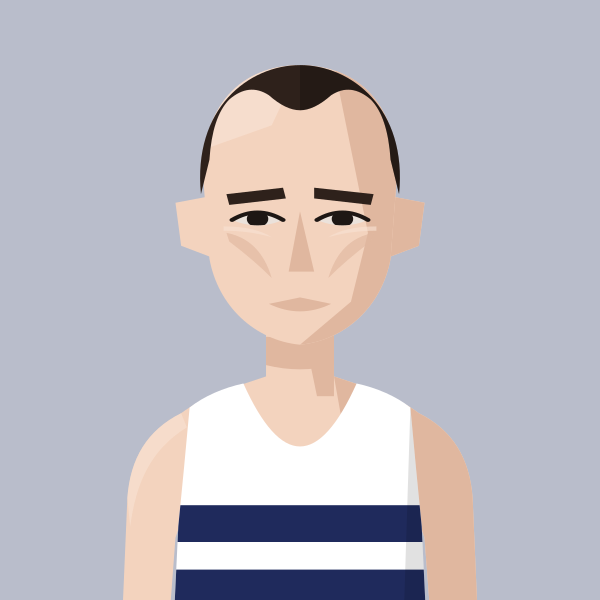
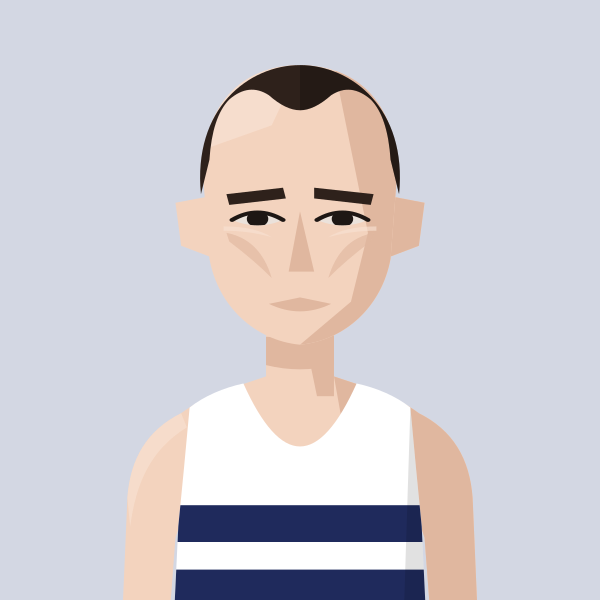
Croydon: lighter navy-tinted background and lettering (about 1.8:1 contrast)
Claude-Session: https://claude.ai/code/session_01MgmDWhFqnSSnP4iBLKXUZC

diff --git a/files/index.html b/files/index.html
@@ -658,11 +658,11 @@ const POSTER_CARD=(()=>{try{return new URLSearchParams(location.search).get('car
 const posterLines=s=>{const i=s.indexOf('-');if(i<0)return[s];const a=s.slice(0,i),b=s.slice(i+1);return a.length<b.length?[a+'-',b]:[a,'-'+b];};
 const POSTER_OPT=(()=>{try{const q=new URLSearchParams(location.search);const w=parseInt(q.get('w'),10);return{w:[300,400,500,600,700,800,900].includes(w)?w:600,title:q.get('case')!=='caps'};}catch(e){return{w:600,title:true};}})();/* default: title case, weight 600 (as the profile-page name); ?w=300 … 900 and ?case=caps to compare */
 /* clubs whose poster name takes the kit's accent colour rather than its main colour (Belgrave: the gold band, not the claret) */
-const POSTER_ACCENT={BEL:'#BC9F64',CRO:'#1F2A5C'};
+const POSTER_ACCENT={BEL:'#BC9F64',CRO:'#98A1CA'};
 /* poster name colour: the card colour mixed with the kit colour (or Belgrave's gold) for a tonal look, then darkened in the same hue only if it falls below 2:1 contrast with the card (about Jack Kavanagh's level; Oct 2026) */
 const POSTER_MIN_CONTRAST=2;
 /* yellow kits read stronger at the same contrast, so they get a softer minimum (Steve, Oct 2026) */
-const POSTER_MIN_BY_CLUB={'H/W':1.5,'BOX':1.5,'STR':1.5};
+const POSTER_MIN_BY_CLUB={'H/W':1.5,'BOX':1.5,'STR':1.5,'CRO':1.5};
 const posterInk=(bg,vest,club)=>{const rgb=c=>{c=(c||'#888888').replace('#','');if(c.length===3)c=c.split('').map(v=>v+v).join('');const n=parseInt(c,16);return[(n>>16)&255,(n>>8)&255,n&255];};
   const b=rgb(bg),v=vest?rgb(vest):null,lum=v?(0.2126*v[0]+0.7152*v[1]+0.0722*v[2])/255:1;
   const base=club&&POSTER_ACCENT[club]?rgb(POSTER_ACCENT[club]):((v&&lum<0.8)?b.map((x,i)=>x*0.55+v[i]*0.45):b.map(x=>x*0.72));
@@ -827,7 +827,7 @@ const portraitFile=(name,club)=>{const k=normalizeNameForCompare(name||'').repla
 const portraitClubOf=(name,clubs)=>{for(const c of clubs||[]){if(c&&portraitFile(name,c))return c;}return null;}; /* first of these clubs we have a portrait for */
 // Athlete header figure: superstar portrait if we have one, else a grey runner in the club vest, else the plain vest icon
 // Changes whenever any portrait changes (set by tools/build_og.py), so browsers fetch fresh images instead of old cached ones
-const PORTRAIT_V='e7145d36';const PORTRAIT_WOMEN='abbey-brooke,abbie-bulbulian,adele-prince,aimee-hargreaves,aisling-ahern,alex-brown,alex-gandee,alex-marginean,alex-miller,alexa-parker,alexandra-barbour,alice-braham,alice-bridger-morales,alice-crane,alice-martin,alice-reed,alice-smith,alison-purnell,alison-thomson,amelia-pettitt,amy-clements,andrea-barber,anika-schwarze-chintapatla,anna-garnier,anna-garnier-hw,anna-sharp,annabel-hobday,annabelle-hadlow,anne-hegvold,annmarie-seymour,ava-mcandie,becky-briggs,bethan-goddard,bethanie-murray,bethany-brown,betsy-griffiths,billie-mcclosky,camilla-barden,caoimhe-nic-fhogartaigh,carolyne-baxter,catherine-bryson,catherine-eastham,catherine-kandie,cathy-ansell,charlotte-griffiths,chloe-beckett,chloe-tighe,chrissie-wellington,claire-grima,clara-pettit,clare-elms,clare-pauzers,dillan-quinn,dorchie-cockerell,eilidh-hide,elinor-skinner,eliza-grant,elizabeth-apsley,elizabeth-stavreski,ella-fennelly,ella-king-powrie,ella-may-hards,ella-newton,ellen-weir,ellie-brown,ellie-freeden,eloise-bull,emilie-arnoux,emily-barrett,emily-bradley,emily-lowery,emily-robbins,emma-gordon,emma-howsham,emma-lord,emma-rowland,estle-viljoen,evie-warren,felicity-cole,felicity-harrison,felicity-hayward,fi-maddocks,fiona-de-mauny,florence-wiggins,gabby-collison,gabriel-reynolds,gemma-newport,genevieve-blanch,georgia-curry,georgie-bruinvels,georgie-fenn,georgie-furze,georgie-grgec,gina-galbraith,grace-leyland,grace-richardson,hannah-edwards,hannah-english,heather-statham,heather-statham-cc,helena-corbin,helena-keenan,holly-nixon,holly-pan,imogen-mackie,imogen-wolsey,iona-cousland,isabel-bradley,isabel-brinsden,isabelle-pickett,isobel-hodder,jennifer-nandi,jennifer-smith,jess-reed,jess-saunders,jess-winfield,jessica-davies,jessica-lowe,jodie-favell,josephine-rhodes,julia-bleasdale,julia-wedmore,juliet-hodder,jurgita-levertaviciute,justine-lynch,karen-fenner,karen-xiang,karina-box,kate-axford,kate-williams,kathy-sharpe,katie-ellen-french,katie-good,katie-snowden,katy-hedgethorne,kitty-shepherd-cross,kristina-popadich,lara-bromilow,lara-mangan,laura-goodson,laura-miles,lauren-major,lea-adamson,lily-newton,lisa-bailey,lisa-thomas,lisa-thomas-hw,lizzie-goldie-scot,louise-cooper,lucy-jones,lucy-macalister,lucy-peters,lydia-blackmore,lydia-gallyer-barnett,maddie-mastrolonardo,maddy-whitman,maeve-kenny,margaret-coogan,martina-conner,mary-james,mary-setyabule,matilde-lomba,megan-gildea,mel-wilkins,mhairi-hall,mimi-corden-lloyd,molly-oconnor,molly-smith,monika-gajek,naomi-lenane,natalie-beadle,natalie-seymour,natasha-lodge,niamh-thompson,nicky-hayes,nicola-cartlidge,nicola-douglas,nikki-sturzaker,olivia-papaioannou,olivia-stillman,orna-mcginley,pamela-mchutchon,patricia-walker,patrizia-gnoato,penny-oliver,rachel-brown,rebecca-barrow,rebekah-edgar,ruby-carter,ruby-whyte-wilding,ruby-woolfe,sally-urquhart,sam-whiting,samantha-munday,sarah-astin,sarah-dewhirst,sarah-grover,sarah-hanley,sarah-holt,sarah-murphy,sarah-palmer,sarah-palmer-ran,sarah-riceman,sarah-young,saron-haileselase,serena-carter,sophie-cowper,sophie-harris,sophie-hicks,sophie-tooley,stacey-ward,steph-hewitt,steph-mccall,steph-mccall-cc,steph-mccall-slh,steph-mitchell,suzanne-swaine,suze-spalding,suzie-harvey,suzy-whatmough,teresa-murphy,tilly-heaton,tilly-heaton-bel,tish-jones,vic-cartwright,vicky-clarke,victoria-barthelmess,victoria-buck,vikki-filsell,zoe-doyle,zoe-macdonald,zuzana-nemeckova';const PORTRAIT_MEN='aaron-wilson,abdulla-elsadig,adam-leane,adrian-major,adrien-royer,alan-black,alan-mead,alex-brecker,alex-bruce-littlewood,alex-gutteridge,alex-harris,alex-howard,alex-janiaud,alex-lee,alex-lennon,alex-mills,alex-milne,alex-morales,alex-robinson,alex-yee,alexander-marks,amittai-ben-israel,andrew-cumine,andrew-green,andrew-penney,andrew-perfect,andrew-simms,andrew-warburton,andrius-jaksevicius,andy-coley-maud,andy-coley-maud-cc,andy-fyfe,andy-north,andy-paton,andy-weir,angus-butler,angus-lamb,anisse-ismaili,arlo-ludewick,arne-dumez,arthur-peel,ashley-goncalves,barnaby-day,barry-collins,barry-sawyer,ben-clarke,ben-coughlan,ben-harding,ben-hurley,ben-ireland,ben-millar,ben-paviour,ben-pearce,ben-racle,ben-revill,ben-reynolds,ben-scott,ben-toomer,benedict-whitby,benjamin-hilson,bernie-ford,bill-kerr,bill-weller,bill-weller-wal,bob-harrison,bob-holt,bob-lunnon,bob-rayman,bob-smith,bradley-courtney-pinn,brandon-dewar,brian-gorman,brian-wilder,caleb-hathaway,callum-stewart,cameron-dockerill,cameron-reilly,carl-delaney,charles-herrington,charlie-dabbs,charlie-dickinson,charlie-eastaugh,charlie-manning,charlie-pickett,charlie-rogers,charlie-sandison,charlie-walker,charlie-wyllie,che-compton,chris-busaileh,chris-busaileh-hhh,chris-greenwood,chris-keavey,chris-moss,chris-steer,chris-threadgold,chris-warren,christian-lee,christopher-parker,clive-gilby,clive-shippen,colin-high,colin-pearson,conall-mcnally,conall-whelan,craig-ruddy,dame-dibaba,dan-cliffe,dan-pettitt,daniel-shaw,daniel-wolff,darren-mead,dave-beard,dave-beaver,dave-glassborow,dave-holt,dave-taylor,david-anderson,david-bowers,david-grima,david-north,david-ogden,david-symons,david-walsh,david-williams,deron-fagan,dick-piotrowski,dimos-evangelidis,dom-nolan,dominic-kiralyfi,don-anderson,don-faircloth,don-maclean,doug-maughan,duncan-rimmer,dylan-evans,dylan-mitchard,ed-brewer,ed-catmur,ed-gibson,ed-mallett,eddie-herridge,eddie-jodrell,eddie-rolls,edward-chuck,eoin-brady,eoin-molloy,ethan-mccolgan,falilou-kebe,findlay-dyer,finn-johnson,fintan-pearce,frank-tickner,frank-ward,fred-paget,fred-slemeck,freddie-hessian,garret-lee,gary-ribbons,gary-ribbons-ee,gary-staines,gary-staines-bel,gavin-eccles,geoff-biscoe,geoff-jerwood,geoff-north,george-cotton,george-gathercole,george-jackson,george-loxton,george-mallett,george-ogden,gerry-adams,gerry-north,glen-keegan,gordon-pearce,graham-macky,harrison-hayman,harry-guttridge,hector-revill,henry-hart,henry-silverstein,hugo-hewitt,huw-lobb,ian-acreman,ian-crowe-wright,ian-ellwood,ian-harkness,indy-barnes,isaac-lutaya,isaac-parker,jack-brotchie,jack-dickson,jack-dormer,jack-hampshire,jack-harrison,jack-hobden,jack-kavanagh,jack-millar,jack-ramm,jack-woods,jacob-brockmann,jake-simmonds,james-bartram,james-blackwood,james-bowler,james-estall,james-ewing,james-fox,james-hancock,james-harvey,james-hoad,james-kelly,james-mcmullan,james-murray,james-nutt,james-preston,james-roberts,james-stockings,james-ward,james-wootton,jamie-crowe,jamie-parkinson,jared-martin,jean-paul-wright,jeff-cunningham,jeremy-dempsey,jermaine-mays,jerry-watson,jim-allchin,jim-rimmer,joe-english,joe-hartley,john-baker,john-bicourt,john-bromley,john-davies,john-dear,john-foss,john-foxall,john-gilbert,john-gladwin,john-hutchins,john-kendall,john-kimaiyo,john-lee,john-lethbridge,john-mather,john-moore,john-roberts,john-sanderson,john-stow,john-sullivan,john-thresher,jon-pepper,jon-pepper-slh,jon-phillips,jon-solly,jonathan-cocker,jonathan-collier,jonathan-cornish,jonathan-ratcliffe,jonathan-tipper,jonny-neville,jonny-scott,jordan-weaver,josh-mitchell,josh-snow,josh-trigwell,jules-gevers,junior-galley,justin-chaston,justin-reid,kassa-tadesse,keith-newton,kevin-nash,kevin-quinn,kevin-sturman,kieran-barnes,kieran-white,knut-hegvold,knut-hegvold-bel,larry-ryan,lawrence-avery,lee-lintern,lewis-lloyd,liam-burthem,lionel-mann,lloyd-kempson,luke-caldwell,mack-downie,malachi-byansi,marcello-bizio,marcelo-fortes,marco-mazzotta,mark-anderson,mark-miles,mark-sinclair,mark-tennyson,mark-waller,martin-dent,martin-lake,martin-lewington,martin-shore,mathew-speed,matt-chaston,matt-jones,matt-wood,matthew-edgar,matthew-houchell,matthew-thomas,matthew-varley,max-bloor,max-heyden,max-milarvie,max-nicholls,michael-baker,michael-mccarthy,mick-woods,mike-beevor,mike-boyle,mike-cummings,mike-farmery,mike-fuller,mike-hayes,mike-kortenray,mike-nouch,mohammed-ismail,monty-hudson,morgan-roberts,nathan-visick,neil-chisholm,neil-phillips,neil-speaight,neil-wilson,nic-lukies,nick-acfield,nick-altmann,nick-bester,nick-bester-hhh,nick-buckle,nick-bundle,nick-goolab,nick-lightfoot,nick-morris,nick-torry,noah-fernandez,norman-stairs,oli-carrington,oliver-carrington,oliver-fox,oliver-reynolds,oliver-young,ollie-foote,ollie-garrod,olly-buck,owen-hind,paddy-roddy,pancho-panchev,paskar-owor,pat-newell,patrick-mcdougall,paul-calver,paul-cheetham,paul-freary,paul-magner,paul-pollock,paul-sanderson,paul-sanderson-wok,pete-carton,pete-gardner,peter-clarke,peter-giles,peter-giles-thh,peter-lighting,phil-carstairs,phil-sanders,phil-sesemann,phil-swinburn,phil-wicks,phil-woodford-smith,raj-paranandi,ralph-street,ranjit-bhatia,ray-foley,reece-edwards,rhys-boorman,rian-mccawley,richard-ashe,richard-giles,richard-henderson,richard-langley,richard-mcdowell,richard-ollington,richard-partridge,richard-sun,richard-ward,rob-armstrong,rob-kelly,rob-tuer,robert-elphick,robert-laing,robert-norville,robert-peacock,robert-sesemann,robin-boon,robin-hudson,roger-alsop,roger-alsop-bel,roger-hackney,ron-clark,ron-linstead,ronan-tanguy,rory-mcmahon,rory-orsborn,ross-braden,ross-christie,rowan-board,rowan-crichton,russell-dessaix-chin,ryan-hickey,ryan-mccallister,sam-bramwell,sam-charlton,sam-gebreselassie,sam-haughian,sam-peters,sam-sommerville,sam-tyas,samuel-dames,samuel-wilcock,sean-cordon,sebastian-anthony,simon-baines,simon-coombes,simon-coppard,simon-fairbrother,simon-holmes,simon-rayner,simon-rayner-hw,simon-wade,simon-wade-hhh,simon-waterhouse,simon-williams,simon-wurr,sonny-nicoll,spencer-barden,stephen-mcleod,stephen-sharp,steve-gardner,steve-jones,steve-smythe,steve-smythe-hhh,stuart-beaney,stuart-major,stuart-major-thh,stuart-mccallum,stuart-paton,terry-booth,thomas-dugre,thomas-gandee,thomas-gardner,thomas-renshaw,tim-alexander,tim-eglen,tim-lawrence,tim-watson,toby-cooke,toby-fletcher,tom-austin,tom-cheetham,tom-conlon,tom-davies,tom-gifford,tom-higgs,tom-jervis,tom-lole,tom-south,tom-thornley,tommy-taylor,tony-binda,tony-fairclough,tony-harran,trevor-hart,valdis-pauzers,valentin-rigori,vic-maughan,wayne-oxborough,will-cockerell,will-lewis,will-marshall,will-scott,will-stockley,william-gardner,yacin-yusuf,zach-nolan';
+const PORTRAIT_V='f416e78b';const PORTRAIT_WOMEN='abbey-brooke,abbie-bulbulian,adele-prince,aimee-hargreaves,aisling-ahern,alex-brown,alex-gandee,alex-marginean,alex-miller,alexa-parker,alexandra-barbour,alice-braham,alice-bridger-morales,alice-crane,alice-martin,alice-reed,alice-smith,alison-purnell,alison-thomson,amelia-pettitt,amy-clements,andrea-barber,anika-schwarze-chintapatla,anna-garnier,anna-garnier-hw,anna-sharp,annabel-hobday,annabelle-hadlow,anne-hegvold,annmarie-seymour,ava-mcandie,becky-briggs,bethan-goddard,bethanie-murray,bethany-brown,betsy-griffiths,billie-mcclosky,camilla-barden,caoimhe-nic-fhogartaigh,carolyne-baxter,catherine-bryson,catherine-eastham,catherine-kandie,cathy-ansell,charlotte-griffiths,chloe-beckett,chloe-tighe,chrissie-wellington,claire-grima,clara-pettit,clare-elms,clare-pauzers,dillan-quinn,dorchie-cockerell,eilidh-hide,elinor-skinner,eliza-grant,elizabeth-apsley,elizabeth-stavreski,ella-fennelly,ella-king-powrie,ella-may-hards,ella-newton,ellen-weir,ellie-brown,ellie-freeden,eloise-bull,emilie-arnoux,emily-barrett,emily-bradley,emily-lowery,emily-robbins,emma-gordon,emma-howsham,emma-lord,emma-rowland,estle-viljoen,evie-warren,felicity-cole,felicity-harrison,felicity-hayward,fi-maddocks,fiona-de-mauny,florence-wiggins,gabby-collison,gabriel-reynolds,gemma-newport,genevieve-blanch,georgia-curry,georgie-bruinvels,georgie-fenn,georgie-furze,georgie-grgec,gina-galbraith,grace-leyland,grace-richardson,hannah-edwards,hannah-english,heather-statham,heather-statham-cc,helena-corbin,helena-keenan,holly-nixon,holly-pan,imogen-mackie,imogen-wolsey,iona-cousland,isabel-bradley,isabel-brinsden,isabelle-pickett,isobel-hodder,jennifer-nandi,jennifer-smith,jess-reed,jess-saunders,jess-winfield,jessica-davies,jessica-lowe,jodie-favell,josephine-rhodes,julia-bleasdale,julia-wedmore,juliet-hodder,jurgita-levertaviciute,justine-lynch,karen-fenner,karen-xiang,karina-box,kate-axford,kate-williams,kathy-sharpe,katie-ellen-french,katie-good,katie-snowden,katy-hedgethorne,kitty-shepherd-cross,kristina-popadich,lara-bromilow,lara-mangan,laura-goodson,laura-miles,lauren-major,lea-adamson,lily-newton,lisa-bailey,lisa-thomas,lisa-thomas-hw,lizzie-goldie-scot,louise-cooper,lucy-jones,lucy-macalister,lucy-peters,lydia-blackmore,lydia-gallyer-barnett,maddie-mastrolonardo,maddy-whitman,maeve-kenny,margaret-coogan,martina-conner,mary-james,mary-setyabule,matilde-lomba,megan-gildea,mel-wilkins,mhairi-hall,mimi-corden-lloyd,molly-oconnor,molly-smith,monika-gajek,naomi-lenane,natalie-beadle,natalie-seymour,natasha-lodge,niamh-thompson,nicky-hayes,nicola-cartlidge,nicola-douglas,nikki-sturzaker,olivia-papaioannou,olivia-stillman,orna-mcginley,pamela-mchutchon,patricia-walker,patrizia-gnoato,penny-oliver,rachel-brown,rebecca-barrow,rebekah-edgar,ruby-carter,ruby-whyte-wilding,ruby-woolfe,sally-urquhart,sam-whiting,samantha-munday,sarah-astin,sarah-dewhirst,sarah-grover,sarah-hanley,sarah-holt,sarah-murphy,sarah-palmer,sarah-palmer-ran,sarah-riceman,sarah-young,saron-haileselase,serena-carter,sophie-cowper,sophie-harris,sophie-hicks,sophie-tooley,stacey-ward,steph-hewitt,steph-mccall,steph-mccall-cc,steph-mccall-slh,steph-mitchell,suzanne-swaine,suze-spalding,suzie-harvey,suzy-whatmough,teresa-murphy,tilly-heaton,tilly-heaton-bel,tish-jones,vic-cartwright,vicky-clarke,victoria-barthelmess,victoria-buck,vikki-filsell,zoe-doyle,zoe-macdonald,zuzana-nemeckova';const PORTRAIT_MEN='aaron-wilson,abdulla-elsadig,adam-leane,adrian-major,adrien-royer,alan-black,alan-mead,alex-brecker,alex-bruce-littlewood,alex-gutteridge,alex-harris,alex-howard,alex-janiaud,alex-lee,alex-lennon,alex-mills,alex-milne,alex-morales,alex-robinson,alex-yee,alexander-marks,amittai-ben-israel,andrew-cumine,andrew-green,andrew-penney,andrew-perfect,andrew-simms,andrew-warburton,andrius-jaksevicius,andy-coley-maud,andy-coley-maud-cc,andy-fyfe,andy-north,andy-paton,andy-weir,angus-butler,angus-lamb,anisse-ismaili,arlo-ludewick,arne-dumez,arthur-peel,ashley-goncalves,barnaby-day,barry-collins,barry-sawyer,ben-clarke,ben-coughlan,ben-harding,ben-hurley,ben-ireland,ben-millar,ben-paviour,ben-pearce,ben-racle,ben-revill,ben-reynolds,ben-scott,ben-toomer,benedict-whitby,benjamin-hilson,bernie-ford,bill-kerr,bill-weller,bill-weller-wal,bob-harrison,bob-holt,bob-lunnon,bob-rayman,bob-smith,bradley-courtney-pinn,brandon-dewar,brian-gorman,brian-wilder,caleb-hathaway,callum-stewart,cameron-dockerill,cameron-reilly,carl-delaney,charles-herrington,charlie-dabbs,charlie-dickinson,charlie-eastaugh,charlie-manning,charlie-pickett,charlie-rogers,charlie-sandison,charlie-walker,charlie-wyllie,che-compton,chris-busaileh,chris-busaileh-hhh,chris-greenwood,chris-keavey,chris-moss,chris-steer,chris-threadgold,chris-warren,christian-lee,christopher-parker,clive-gilby,clive-shippen,colin-high,colin-pearson,conall-mcnally,conall-whelan,craig-ruddy,dame-dibaba,dan-cliffe,dan-pettitt,daniel-shaw,daniel-wolff,darren-mead,dave-beard,dave-beaver,dave-glassborow,dave-holt,dave-taylor,david-anderson,david-bowers,david-grima,david-north,david-ogden,david-symons,david-walsh,david-williams,deron-fagan,dick-piotrowski,dimos-evangelidis,dom-nolan,dominic-kiralyfi,don-anderson,don-faircloth,don-maclean,doug-maughan,duncan-rimmer,dylan-evans,dylan-mitchard,ed-brewer,ed-catmur,ed-gibson,ed-mallett,eddie-herridge,eddie-jodrell,eddie-rolls,edward-chuck,eoin-brady,eoin-molloy,ethan-mccolgan,falilou-kebe,findlay-dyer,finn-johnson,fintan-pearce,frank-tickner,frank-ward,fred-paget,fred-slemeck,freddie-hessian,garret-lee,gary-ribbons,gary-ribbons-ee,gary-staines,gary-staines-bel,gavin-eccles,geoff-biscoe,geoff-jerwood,geoff-north,george-cotton,george-gathercole,george-jackson,george-loxton,george-mallett,george-ogden,gerry-adams,gerry-north,glen-keegan,gordon-pearce,graham-macky,harrison-hayman,harry-guttridge,hector-revill,henry-hart,henry-silverstein,hugo-hewitt,huw-lobb,ian-acreman,ian-crowe-wright,ian-ellwood,ian-harkness,indy-barnes,isaac-lutaya,isaac-parker,jack-brotchie,jack-dickson,jack-dormer,jack-hampshire,jack-harrison,jack-hobden,jack-kavanagh,jack-millar,jack-ramm,jack-woods,jacob-brockmann,jake-simmonds,james-bartram,james-blackwood,james-bowler,james-estall,james-ewing,james-fox,james-hancock,james-harvey,james-hoad,james-kelly,james-mcmullan,james-murray,james-nutt,james-preston,james-roberts,james-stockings,james-ward,james-wootton,jamie-crowe,jamie-parkinson,jared-martin,jean-paul-wright,jeff-cunningham,jeremy-dempsey,jermaine-mays,jerry-watson,jim-allchin,jim-rimmer,joe-english,joe-hartley,john-baker,john-bicourt,john-bromley,john-davies,john-dear,john-foss,john-foxall,john-gilbert,john-gladwin,john-hutchins,john-kendall,john-kimaiyo,john-lee,john-lethbridge,john-mather,john-moore,john-roberts,john-sanderson,john-stow,john-sullivan,john-thresher,jon-pepper,jon-pepper-slh,jon-phillips,jon-solly,jonathan-cocker,jonathan-collier,jonathan-cornish,jonathan-ratcliffe,jonathan-tipper,jonny-neville,jonny-scott,jordan-weaver,josh-mitchell,josh-snow,josh-trigwell,jules-gevers,junior-galley,justin-chaston,justin-reid,kassa-tadesse,keith-newton,kevin-nash,kevin-quinn,kevin-sturman,kieran-barnes,kieran-white,knut-hegvold,knut-hegvold-bel,larry-ryan,lawrence-avery,lee-lintern,lewis-lloyd,liam-burthem,lionel-mann,lloyd-kempson,luke-caldwell,mack-downie,malachi-byansi,marcello-bizio,marcelo-fortes,marco-mazzotta,mark-anderson,mark-miles,mark-sinclair,mark-tennyson,mark-waller,martin-dent,martin-lake,martin-lewington,martin-shore,mathew-speed,matt-chaston,matt-jones,matt-wood,matthew-edgar,matthew-houchell,matthew-thomas,matthew-varley,max-bloor,max-heyden,max-milarvie,max-nicholls,michael-baker,michael-mccarthy,mick-woods,mike-beevor,mike-boyle,mike-cummings,mike-farmery,mike-fuller,mike-hayes,mike-kortenray,mike-nouch,mohammed-ismail,monty-hudson,morgan-roberts,nathan-visick,neil-chisholm,neil-phillips,neil-speaight,neil-wilson,nic-lukies,nick-acfield,nick-altmann,nick-bester,nick-bester-hhh,nick-buckle,nick-bundle,nick-goolab,nick-lightfoot,nick-morris,nick-torry,noah-fernandez,norman-stairs,oli-carrington,oliver-carrington,oliver-fox,oliver-reynolds,oliver-young,ollie-foote,ollie-garrod,olly-buck,owen-hind,paddy-roddy,pancho-panchev,paskar-owor,pat-newell,patrick-mcdougall,paul-calver,paul-cheetham,paul-freary,paul-magner,paul-pollock,paul-sanderson,paul-sanderson-wok,pete-carton,pete-gardner,peter-clarke,peter-giles,peter-giles-thh,peter-lighting,phil-carstairs,phil-sanders,phil-sesemann,phil-swinburn,phil-wicks,phil-woodford-smith,raj-paranandi,ralph-street,ranjit-bhatia,ray-foley,reece-edwards,rhys-boorman,rian-mccawley,richard-ashe,richard-giles,richard-henderson,richard-langley,richard-mcdowell,richard-ollington,richard-partridge,richard-sun,richard-ward,rob-armstrong,rob-kelly,rob-tuer,robert-elphick,robert-laing,robert-norville,robert-peacock,robert-sesemann,robin-boon,robin-hudson,roger-alsop,roger-alsop-bel,roger-hackney,ron-clark,ron-linstead,ronan-tanguy,rory-mcmahon,rory-orsborn,ross-braden,ross-christie,rowan-board,rowan-crichton,russell-dessaix-chin,ryan-hickey,ryan-mccallister,sam-bramwell,sam-charlton,sam-gebreselassie,sam-haughian,sam-peters,sam-sommerville,sam-tyas,samuel-dames,samuel-wilcock,sean-cordon,sebastian-anthony,simon-baines,simon-coombes,simon-coppard,simon-fairbrother,simon-holmes,simon-rayner,simon-rayner-hw,simon-wade,simon-wade-hhh,simon-waterhouse,simon-williams,simon-wurr,sonny-nicoll,spencer-barden,stephen-mcleod,stephen-sharp,steve-gardner,steve-jones,steve-smythe,steve-smythe-hhh,stuart-beaney,stuart-major,stuart-major-thh,stuart-mccallum,stuart-paton,terry-booth,thomas-dugre,thomas-gandee,thomas-gardner,thomas-renshaw,tim-alexander,tim-eglen,tim-lawrence,tim-watson,toby-cooke,toby-fletcher,tom-austin,tom-cheetham,tom-conlon,tom-davies,tom-gifford,tom-higgs,tom-jervis,tom-lole,tom-south,tom-thornley,tommy-taylor,tony-binda,tony-fairclough,tony-harran,trevor-hart,valdis-pauzers,valentin-rigori,vic-maughan,wayne-oxborough,will-cockerell,will-lewis,will-marshall,will-scott,will-stockley,william-gardner,yacin-yusuf,zach-nolan';
 // Runners whose dog pops up on their own profile page (a -dog.svg version of their portrait)
 const PROFILE_DOGS=new Set(['john-sanderson','penny-oliver','james-hancock','angus-butler']);
 const AthletePortrait=({name,club,w,fill,onClick,blink})=>{const[failed,setFailed]=useState(false);const file=portraitFile(name,club);const src0=file?`/portraits/athletes/${file}.svg?v=${PORTRAIT_V}`:PORTRAIT_CLUBS.has(club)?`/portraits/clubs/${club.replace(/\//g,'').replace(/&/g,'and')}.svg?v=${PORTRAIT_V}`:null;const blinkSrc=useBlinkSrc(file?(PROFILE_DOGS.has(file)?`/portraits/athletes/${file}-dog.svg?v=${PORTRAIT_V}`:src0):null,!!blink);const src=blinkSrc||src0;if(!src||failed)return<div onClick={onClick} className={onClick?'cursor-pointer':''}><ClubShield club={club} size={w}/></div>;const h=Math.round(w*148/126),ih=Math.round(w*1.4);if(fill)return<div onClick={onClick} className="cursor-pointer" style={{alignSelf:'stretch',minHeight:h,aspectRatio:'126 / 148',flexShrink:0,position:'relative',borderRadius:4,overflow:'hidden'}}><img src={src} alt={file?`Portrait of ${name.replace(/\s*\([^)]*\)$/,'')}`:`Runner in ${CLUBS[club]?.name||club} vest`} style={{position:'absolute',top:0,left:0,display:'block',width:'100%',height:'auto'}} onError={()=>setFailed(true)}/></div>;return<div style={{width:w,height:h,borderRadius:4,overflow:'hidden',flexShrink:0}}><img src={src} alt={file?`Portrait of ${name.replace(/\s*\([^)]*\)$/,'')}`:`Runner in ${CLUBS[club]?.name||club} vest`} width={w} height={ih} style={{display:'block',width:w,height:ih}} onError={()=>setFailed(true)}/></div>;};

diff --git a/tools/gen_portraits.py b/tools/gen_portraits.py
@@ -65,7 +65,7 @@ _MORE = {
     "VAC": ("#ffffff", '<rect x="0" y="8" width="20" height="3" fill="#1a1a1a"/>'),
 }
 for _k,(_p,_pat) in _MORE.items(): KITS[_k]=(_p,_pat,_tint(_p))
-KITS["CRO"] = KITS["CRO"][:2] + (_tint("#1f2a5c"),)  # Croydon: white vest, so base the background on the navy stripes instead of white
+KITS["CRO"] = KITS["CRO"][:2] + ("#D3D7E3",)  # Croydon: white vest, so base the background on the navy stripes instead of white
 SKIN = {  # base, shadow, light
     1: ("#F3D3BE", "#E0B79F", "#F8E2D3"), 2: ("#E6BA98", "#D09D7A", "#EFCDB2"),
     3: ("#CF9B74", "#B6805B", "#DBAF8E"), 4: ("#A9714E", "#8E5A3B", "#BB8663"),
